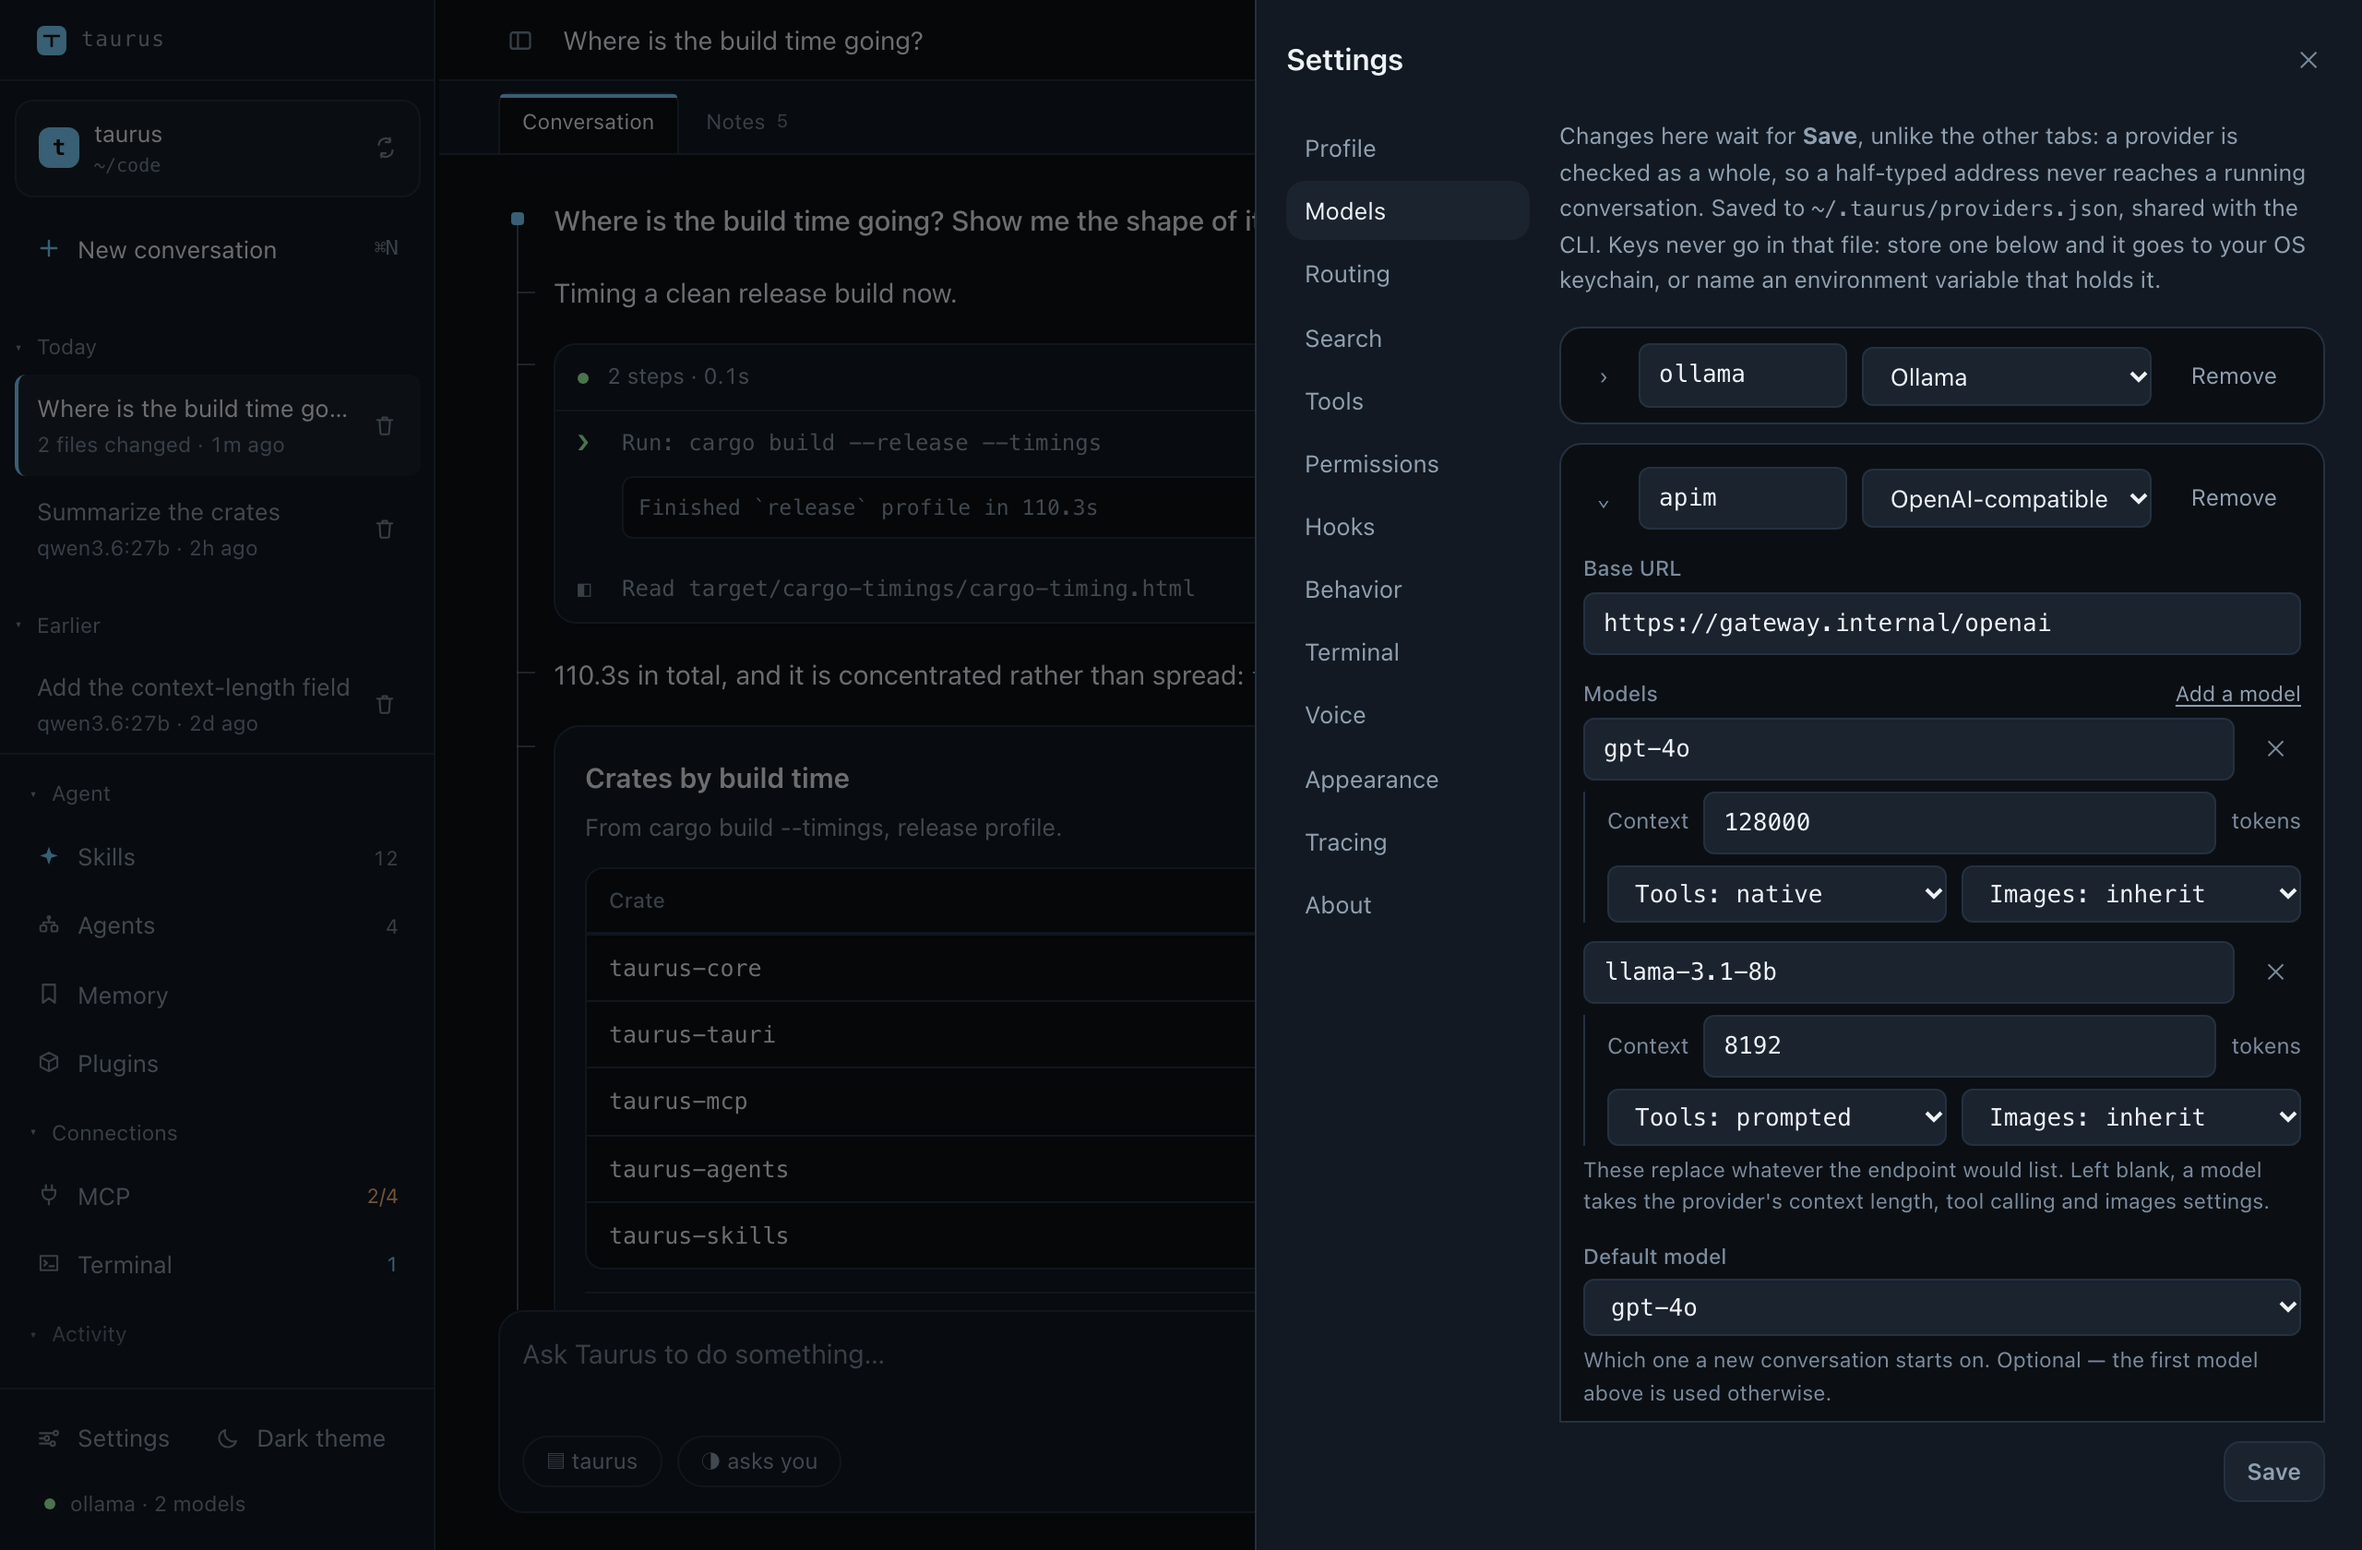
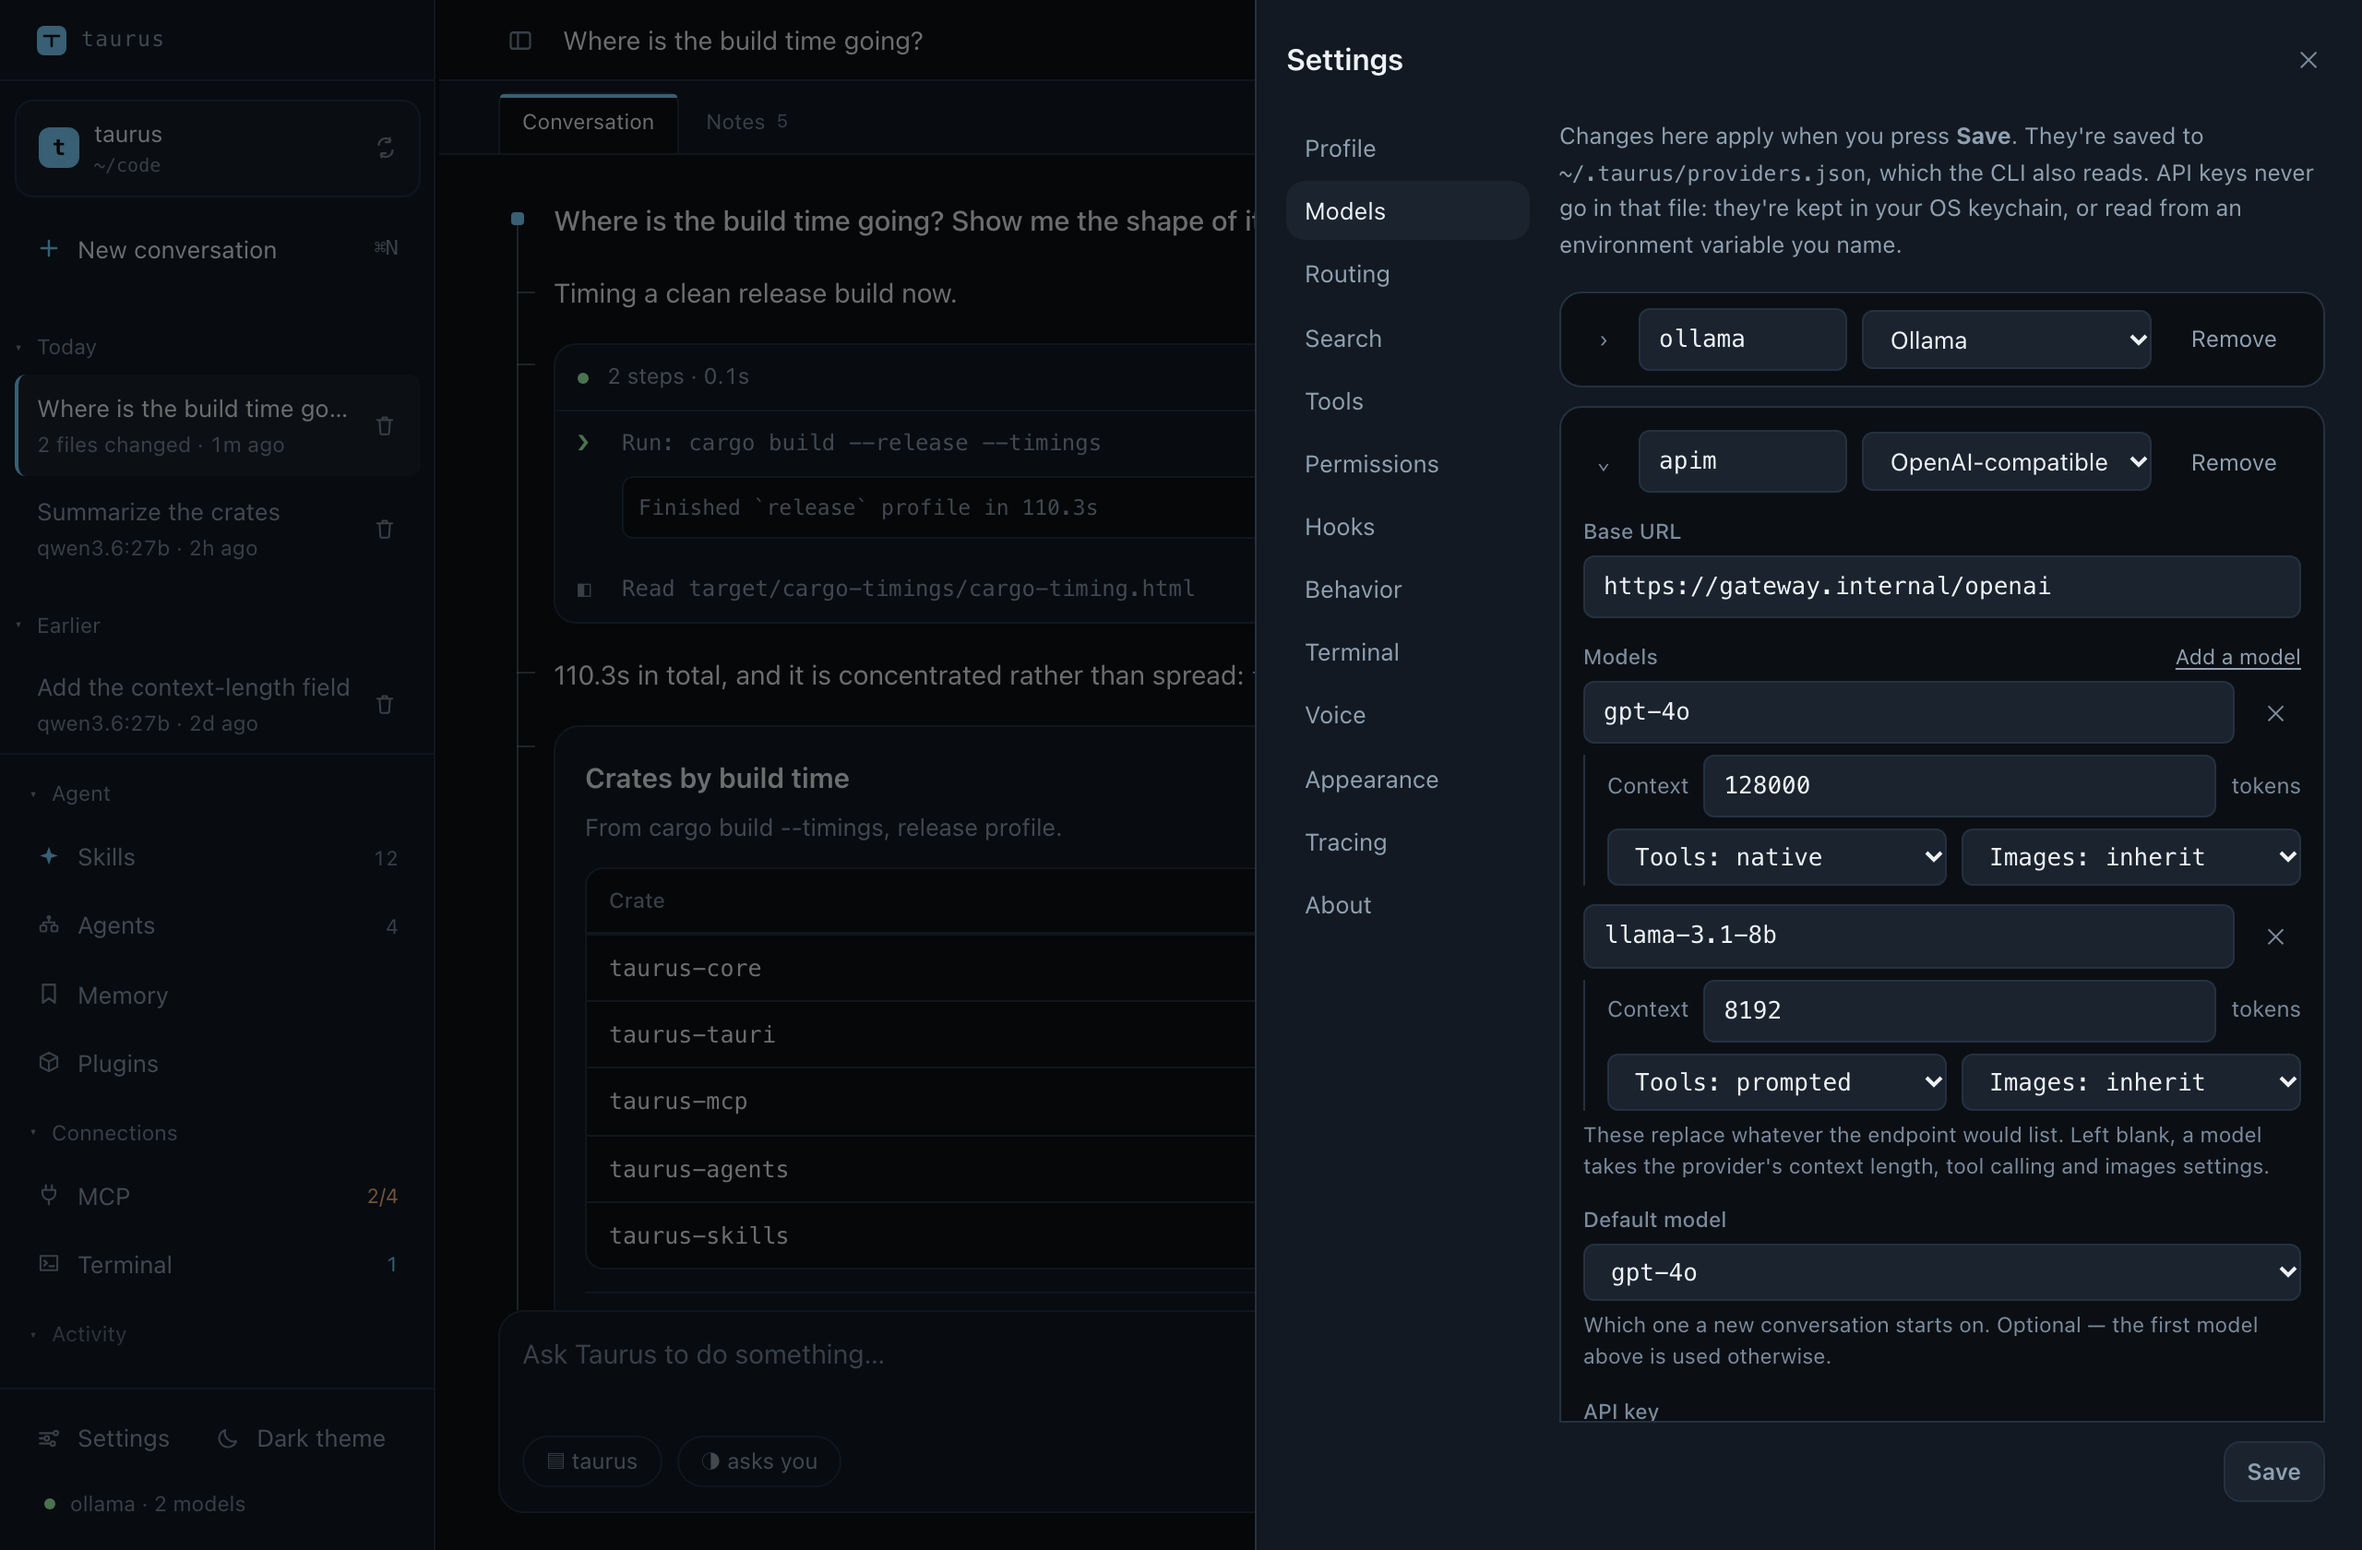
Permission prompt and Models tab: say it plainly
The permission prompt's scope sentence comes from the engine, which
writes the tool name in backticks for the CLI. The dialog rendered it
as plain text, so the backticks showed up as literal characters. The
backtick spans are now set as code, and the tooltips get the plain
sentence. The screenshot fixture used a made-up "Allows edit_file..."
that hid this; it now uses the engine's wording.

"Always everywhere" is the widest grant on the dialog but looked the
same as "Always here". It now uses the warning colour the WRITE badge
already uses.

The Models tab opened with five lines explaining why it needs Save.
Cut to the facts: changes apply on Save, where they're saved, and
where API keys go instead.

Changed region(s): [[0.6562, 0.0619, 1.0, 0.9286]]

diff --git a/src/components/PermissionDialog.tsx b/src/components/PermissionDialog.tsx
@@ -120,7 +120,9 @@ export function PermissionDialog({
             with it: in an untrusted workspace there is nowhere to keep one, and
             a footnote about a button that is not there reads as a bug. */}
         {request.offer_always && (
-          <p className="dialog-footnote">{request.always_scope}.</p>
+          <p className="dialog-footnote">
+            <Ticked text={request.always_scope} />.
+          </p>
         )}
         {/* In its place when no standing grant can cover the line. Without
             it, a prompt with only "Allow once" on it reads as a bug. */}
@@ -156,7 +158,7 @@ export function PermissionDialog({
           {request.offer_always && (
             <button
               onClick={() => onDecide("allow_always")}
-              data-tip={request.always_scope}
+              data-tip={untick(request.always_scope)}
             >
               {/* One name whether or not "everywhere" is beside it, the
                   name the docs use. The tip says what "here" covers. */}
@@ -167,9 +169,14 @@ export function PermissionDialog({
               where "every project you ever open" is the wrong unit, and an
               untrusted workspace, where "here" is absent too. */}
           {request.always_global_scope && (
+            // Set apart from "Always here" because it is the widest grant on
+            // the dialog: one press reaches every project this machine will
+            // ever open. Looking the same as the narrower button made the two
+            // read as equals.
             <button
+              className="wide"
               onClick={() => onDecide("allow_always_global")}
-              data-tip={request.always_global_scope}
+              data-tip={untick(request.always_global_scope)}
             >
               Always everywhere
             </button>
@@ -183,6 +190,26 @@ export function PermissionDialog({
       </div>
     </Modal>
   );
+}
+
+/**
+ * A scope sentence with its backtick spans set as code.
+ *
+ * The engine writes these for the CLI as well, where `edit_file` in backticks
+ * reads fine. Here the backticks used to show up as literal characters around
+ * the tool name, so they are turned into what they mean instead.
+ */
+function Ticked({ text }: { text: string }) {
+  return (
+    <>
+      {text.split("`").map((part, i) => (i % 2 === 1 ? <code key={i}>{part}</code> : part))}
+    </>
+  );
+}
+
+/** The same sentence for a tooltip, which is plain text: the backticks go. */
+function untick(text: string): string {
+  return text.replaceAll("`", "");
 }
 
 /** The chip above the call, in the imperative the user is being asked about. */

diff --git a/src/components/PermissionDialog.mount.test.tsx b/src/components/PermissionDialog.mount.test.tsx
@@ -184,3 +184,40 @@ describe("an untrusted workspace", () => {
     expect(host.textContent).not.toContain("isn't trusted");
   });
 });
+
+describe("the scope sentence", () => {
+  // The engine writes it for the terminal too, with the tool name in
+  // backticks. Rendered as plain text here, those showed up as literal
+  // characters, so they have to become code instead.
+  const SCOPED = {
+    ...WRITE,
+    always_scope: "Always allow `edit_file` in this workspace",
+    always_global_scope: "Always allow `edit_file` in every workspace",
+  } as unknown as PermissionRequest;
+
+  it("sets the tool name as code, with no backticks left", () => {
+    const { host } = mount(SCOPED);
+    const footnote = host.querySelector(".dialog-footnote")!;
+    expect(footnote.querySelector("code")?.textContent).toBe("edit_file");
+    expect(footnote.textContent).toBe("Always allow edit_file in this workspace.");
+  });
+
+  it("strips the backticks from the tooltips, which are plain text", () => {
+    const { host } = mount(SCOPED);
+    const tips = [...host.querySelectorAll(".dialog-actions [data-tip]")].map((b) =>
+      b.getAttribute("data-tip"),
+    );
+    expect(tips).toEqual([
+      "Always allow edit_file in this workspace",
+      "Always allow edit_file in every workspace",
+    ]);
+  });
+
+  it("sets the widest grant apart from the narrower one", () => {
+    const { host } = mount(SCOPED);
+    const everywhere = [...host.querySelectorAll("button")].find((b) =>
+      b.textContent?.includes("Always everywhere"),
+    );
+    expect(everywhere?.classList.contains("wide")).toBe(true);
+  });
+});

diff --git a/src/components/Settings.tsx b/src/components/Settings.tsx
@@ -337,12 +337,10 @@ export function Settings({
                   provider is checked as a whole, and saving on every keystroke
                   would hand a running turn a half-typed address. */}
               <p className="drawer-intro">
-                Changes here wait for <b>Save</b>, unlike the other tabs: a
-                provider is checked as a whole, so a half-typed address never
-                reaches a running conversation. Saved to{" "}
-                <code>~/.taurus/providers.json</code>, shared with the CLI. Keys
-                never go in that file: store one below and it goes to your OS
-                keychain, or name an environment variable that holds it.
+                Changes here apply when you press <b>Save</b>. They're saved to{" "}
+                <code>~/.taurus/providers.json</code>, which the CLI also reads.
+                API keys never go in that file: they're kept in your OS
+                keychain, or read from an environment variable you name.
               </p>
 
               {/* A providers.json that will not parse is why the list below can

diff --git a/src/styles.css b/src/styles.css
@@ -3505,6 +3505,16 @@ body.resizing-y iframe {
   padding: 8px 16px;
   font-size: 13.5px;
 }
+/* "Always everywhere": the widest grant, so it is set apart from "Always
+   here" in the warning colour the effect badge already uses. */
+.dialog-actions button.wide {
+  color: var(--warn);
+  border-color: color-mix(in srgb, var(--warn) 40%, transparent);
+}
+.dialog-actions button.wide:hover:not(:disabled) {
+  background: color-mix(in srgb, var(--warn) 12%, transparent);
+  color: var(--warn);
+}
 
 /* ------------------------------------------------------------- proposals */
 

diff --git a/scripts/screenshots/fixtures.ts b/scripts/screenshots/fixtures.ts
@@ -515,8 +515,8 @@ export const PERMISSION = {
   tool: "edit_file",
   effect: "write",
   preview: "Edit crates/taurus-core/src/agent.rs",
-  always_scope: "Allows edit_file in this workspace",
-  always_global_scope: "Allows edit_file in every workspace",
+  always_scope: "Always allow `edit_file` in this workspace",
+  always_global_scope: "Always allow `edit_file` in every workspace",
   // A trusted workspace, so both standing grants are on offer. Left out, it
   // read as false and the shot showed an untrusted prompt's buttons.
   offer_always: true,
